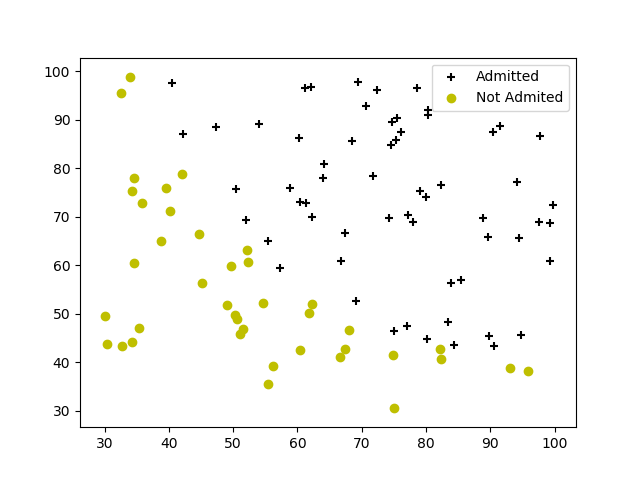
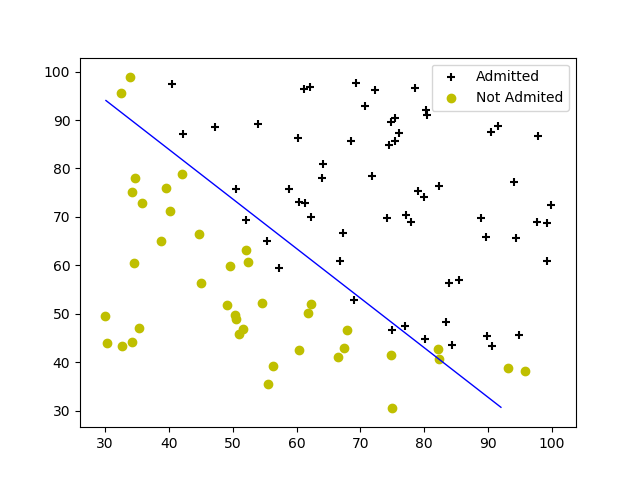
Terminada 2.1, comenzada 2.2

diff --git a/P2/Practica2_2.py b/P2/Practica2_2.py
@@ -1,0 +1,65 @@
+import random as rnd
+import matplotlib as mp
+import matplotlib.pyplot as plt
+from mpl_toolkits.mplot3d import Axes3D
+import numpy as np
+import scipy as sp
+import time
+from matplotlib import cm
+from matplotlib.ticker import LinearLocator, FormatStrFormatter
+import scipy.optimize as opt
+import csv
+import sklearn.preprocessing as skpp
+
+
+#Definicion de funciones -----------------------------------
+def predict_Y (vectX, thetas):
+    return np.matmul(vectX, thetas.T)
+
+# Funcion del cuadernillo de practicas 
+def fun_coste(thetas, matrizX, vectorY, muestras, _lambda):
+    H = sigmoide(np.dot(matrizX, thetas))       
+    oper1 = -(float(1)/muestras)
+    oper2 = np.dot((np.log(H)).T, vectorY)      
+    oper3 = (np.log(1-H)).T                     
+    oper4 = 1-vectorY
+    oper5 = (_lambda/(2*muestras))*np.sum(thetas**2)
+
+    return (oper1 * (oper2 + np.dot(oper3, oper4)))+ oper5
+
+#diapo 8, descenso de gradiente
+def alg_desGrad(thetas, matrizX, vectorY, muestras, _lambda):
+    H = sigmoide(np.dot(matrizX, thetas))  
+    return (np.dot((1.0/muestras), matrizX.T).dot(H-vectorY))+(_lambda/muestras)*thetas
+
+def sigmoide(z):
+    return 1.0/(1.0 + np.exp(-z))
+
+
+#fin definicicion de funciones -----------------------------
+
+# Lectura de datos
+file = open('ex2data2.csv',encoding="utf8",errors='ignore')
+datos = csv.reader(file)
+
+lineas = np.array(list(datos))
+muestras = len(lineas)
+vectorY = np.array([0 for n in range(muestras)]) # Este vector se utiliza en la funcion de coste
+
+#Numero de XsubJ que tenemos
+numcols = len(lineas[0])
+tempa = np.ones(muestras)
+X_plain = lineas.T[0:-1].astype(float)            #np.array([[np.zeros(numcols-1)]for y in range (muestras)]))
+vectorY = np.hstack(lineas.T[-1]).astype(int)
+thetas = np.zeros(numcols)
+_lambda = 1
+
+poly = skpp.PolynomialFeatures(6)
+matrizX = poly.fit_transform(X_plain)
+
+
+print(matrizX.shape)
+print(fun_coste(thetas, matrizX, vectorY, muestras, _lambda))
+
+thetas = np.zeros(matrizX.shape[1])
+result = opt.fmin_tnc(func = fun_coste, x0 =thetas, fprime=alg_desGrad, args=(matrizX, vectorY, muestras))

diff --git a/P2/Practica2.py b/P2/Practica2.py
@@ -20,11 +20,8 @@ import csv
 def sigmoide(z):
     return 1.0/(1.0 + np.exp(-z))
 
-def zeta(theta, x):
-    return np.transpose(theta)*x
-
 def pinta_frontera_recta(X, Y, theta):
-    plt.figure()
+    #plt.figure()
     x1_min, x1_max = X[:, 0].min(), X[:, 0].max()
     x2_min, x2_max = X[:, 1].min(), X[:, 1].max()
 
@@ -39,8 +36,8 @@ def pinta_frontera_recta(X, Y, theta):
     # el cuarto parámetro es el valor de z cuya frontera se
     # quiere pintar
     plt.contour(xx1, xx2, h, [0.5], linewidths=1, colors='b')
-    plt.savefig("frontera.png")
-    plt.close()
+    #plt.savefig("frontera.png")
+
 
 def predict_Y (vectX, thetas):
     return np.matmul(vectX, thetas.T)
@@ -79,7 +76,7 @@ vectorY = np.hstack(lineas.T[-1]).astype(int)
 thetas = np.zeros(numcols)
 
 
-pinta_frontera_recta(matrizX, vectorY, thetas)
+
 result = opt.fmin_tnc(func = fun_coste, x0 =thetas, fprime=alg_desGrad, args=(matrizX, vectorY, muestras))
 thetas_opt = result[0]
 print(result[0])
@@ -88,21 +85,27 @@ print("Optimized thetas", thetas_opt)
 print(" Cost: ", fun_coste(thetas_opt, matrizX, vectorY, muestras))
 
 
-pinta_frontera_recta(matrizX, vectorY, thetas_opt)
-
-
-
-
-
 #Vector de indices donde Y es positiva
+plt.figure()
+pinta_frontera_recta(X_plain.T, vectorY, thetas_opt)
 pos = np.where(vectorY==1)
 neg = np.where(vectorY==0)
 #Grafica
-plt.figure()
 plt.scatter(X_plain.T[pos, 0], X_plain.T[pos, 1], marker='+', c='k', label = "Admitted")
 plt.scatter(X_plain.T[neg, 0], X_plain.T[neg, 1], marker='o', c='y', label = "Not Admited")
 plt.legend()
+
 plt.savefig("ScarcedPoints")
+
+yEv = predict_Y(matrizX, thetas_opt)
+yEv[ yEv >= 0.5] = 1
+yEv[ yEv < 0.5] = 0
+print(yEv)
+
+pcent = np.asarray(np.where(yEv == vectorY)).size
+pcent = (pcent / len(vectorY))*100
+print("El porcentaje de aciertos máquina es : ", pcent, "%")
+
 
 
 
